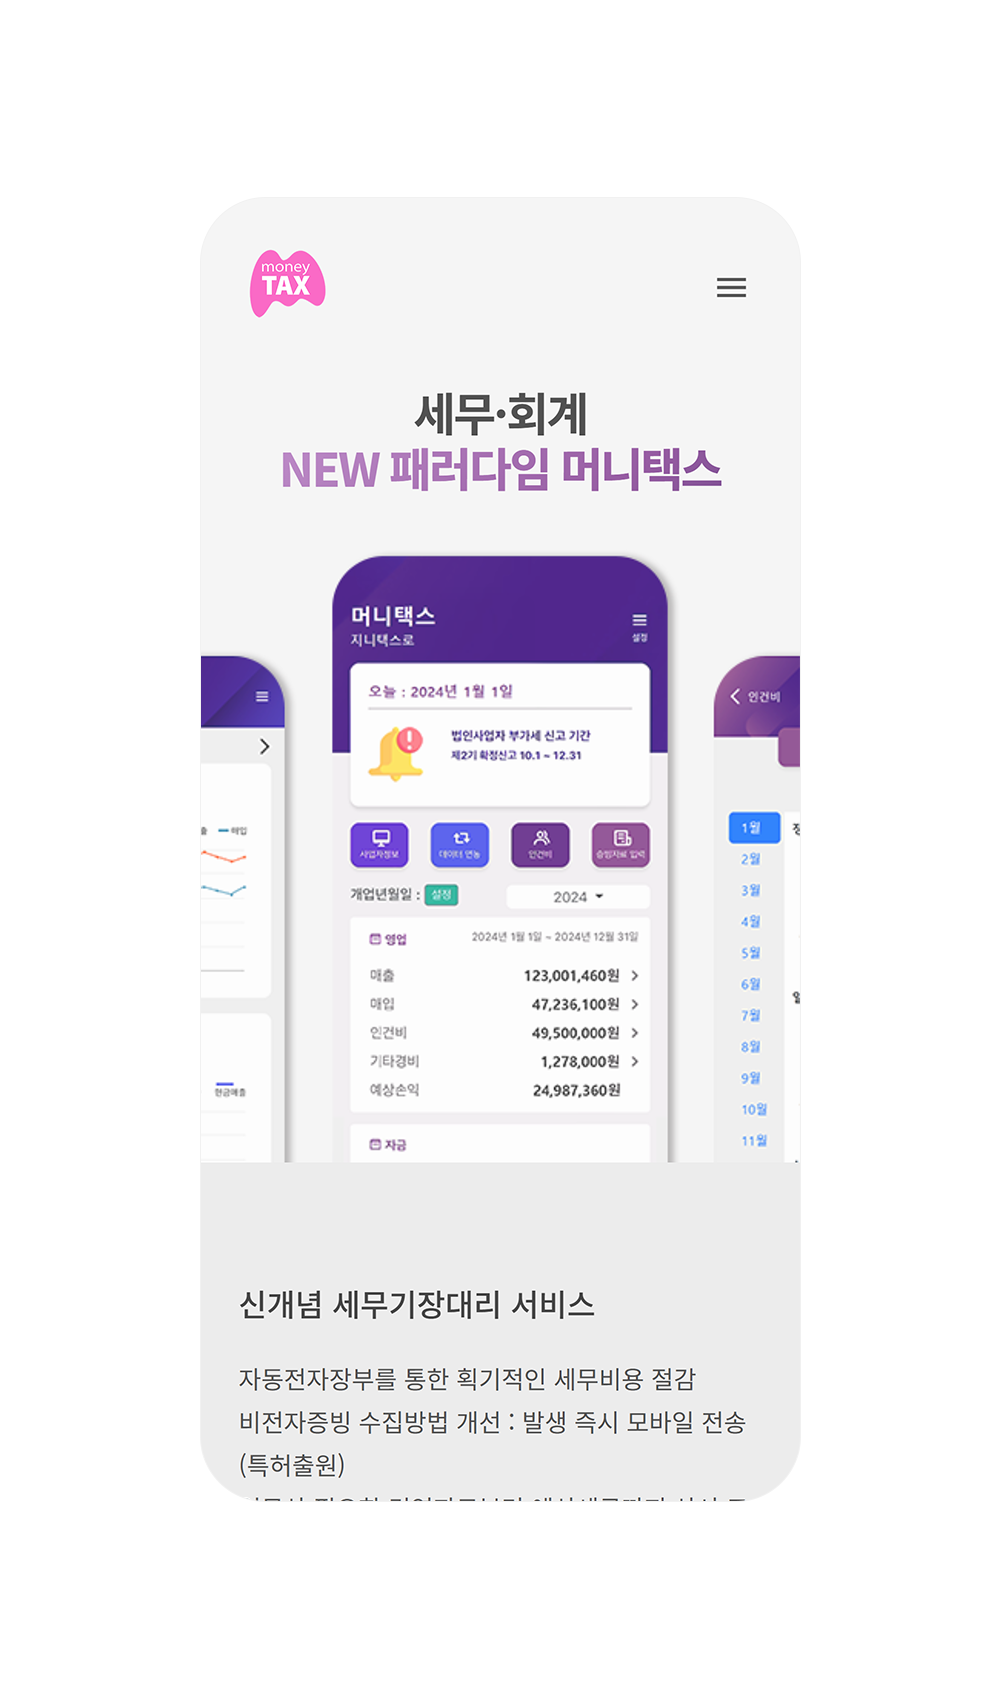
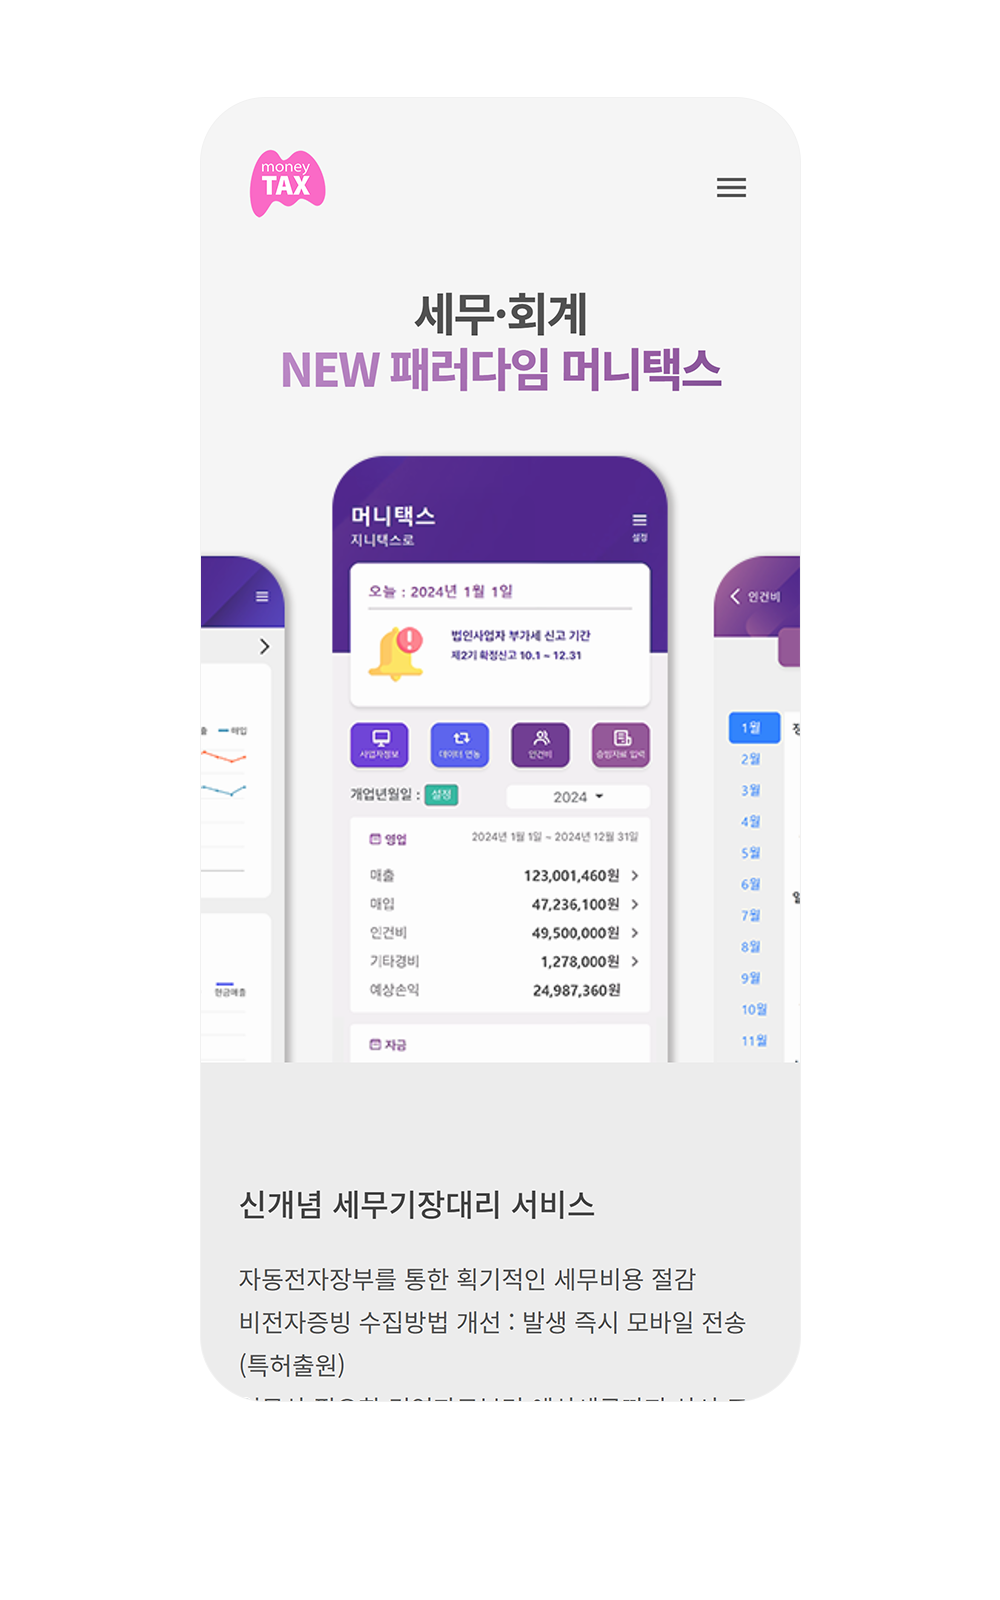
스타일적용끝

diff --git a/css/pp.css b/css/pp.css
@@ -1,3 +1,8 @@
+@import url('https://fonts.googleapis.com/css2?family=Noto+Sans+KR:wght@100..900&display=swap');
+
+body{
+  font-family: "Noto Sans KR", sans-serif;
+}
 
 @media screen and (max-width: 499px)  {
   .textF >ul{
@@ -14,14 +19,47 @@
     margin-bottom: 50vh;
   }
   
-  .textF h2 {
-    font-size: 20px;
-    font-weight: 400;
+  .textF .move >span {
+    font-size: 14px;
+    color: #238F51;
+    font-weight: 500;
+  }
+
+  .textF .move h2 {
+    font-size: 26px;
+    color: #14142B;
+    font-weight: 700;
+    margin: 0;
   }
   
+  .textF .move p:first-of-type{
+    font-size: 12px;
+    color: #9999A6;
+  }
+  .textF .move p >span{
+    color: #f05d4d;
+    font-weight: 600;
+  }
+  .textF .move p:last-of-type{
+    font-size: 14px;
+    color: #14142B;
+  }
+  .textF .move a {
+    display: block;
+    font-size: 16px;
+    color: #fff;
+    text-decoration: none;
+    background-color: #238F51;
+    width: 220px;
+    text-align: center;
+    padding: 10px 0;
+    border-radius: 30px;
+    margin: 0 auto;
+  }
+
   .imgF {
     position: fixed;
-    top: 150px;
+    top: 270px;
     left: 50%;
     transform: translateX(-50%);
     margin: 30px auto;
@@ -67,31 +105,48 @@
     margin-bottom: 50vh;
   }
 
-  .textF .move span {
-    font-size: 20px;
+  .textF .move >span {
+    font-size: 14px;
     color: #238F51;
     font-weight: 500;
   }
 
   .textF .move h2 {
-    font-size: 30px;
+    font-size: 26px;
     color: #14142B;
     font-weight: 700;
     margin: 0;
   }
   
   .textF .move p:first-of-type{
-    font-size: 16px;
+    font-size: 12px;
     color: #9999A6;
   }
+  .textF .move p >span{
+    color: #f05d4d;
+    font-weight: 600;
+  }
   .textF .move p:last-of-type{
-    font-size: 18px;
+    font-size: 14px;
     color: #14142B;
+  }
+  .textF .move a {
+    display: block;
+    font-size: 16px;
+    color: #fff;
+    text-decoration: none;
+    background-color: #238F51;
+    width: 220px;
+    text-align: center;
+    padding: 10px 0;
+    border-radius: 30px;
+    margin: 0 auto;
   }
 
   .imgF {
     position: fixed;
-    top: calc(50vh - 340px);
+    /* top: calc(50vh - 220px); */
+    top: 250px;
     left: 50%;
     transform: translateX(-50%);
     margin: 30px auto;
@@ -137,31 +192,47 @@
     margin-bottom: 57vh;
   }
   
-  .textF .move span {
-    font-size: 20px;
+  .textF .move >span {
+    font-size: 16px;
     color: #238F51;
-    font-weight: 500;
+    font-weight: 600;
   }
 
   .textF .move h2 {
-    font-size: 30px;
+    font-size: 28px;
     color: #14142B;
     font-weight: 700;
     margin: 0;
   }
   
   .textF .move p:first-of-type{
-    font-size: 16px;
+    font-size: 14px;
     color: #9999A6;
   }
+  .textF .move p >span{
+    color: #f05d4d;
+    font-weight: 600;
+  }
   .textF .move p:last-of-type{
-    font-size: 18px;
+    font-size: 16px;
     color: #14142B;
+  }
+  .textF .move a {
+    display: block;
+    font-size: 16px;
+    color: #fff;
+    text-decoration: none;
+    background-color: #238F51;
+    width: 255px;
+    text-align: center;
+    padding: 10px 0;
+    border-radius: 30px;
+    margin: 0 auto;
   }
 
   .imgF {
     position: fixed;
-    top: 220px;
+    top: 280px;
     left: 50%;
     transform: translateX(-50%);
     margin: 30px auto;
@@ -211,33 +282,49 @@
   }
 
   .textF .move:nth-child(1){
-    margin-top: calc(50vh - 370px);
+    margin-top: calc(50vh - 390px);
   }
 
   .textF .move:nth-child(3){
-    margin-bottom: calc(50vh - 150px);
+    margin-bottom: calc(50vh - 200px);
   }
   
-  .textF .move span {
-    font-size: 20px;
+  .textF .move >span {
+    font-size: 16px;
     color: #238F51;
-    font-weight: 500;
+    font-weight: 600;
   }
 
   .textF .move h2 {
-    font-size: 30px;
+    font-size: 28px;
     color: #14142B;
     font-weight: 700;
     margin: 0;
   }
   
   .textF .move p:first-of-type{
-    font-size: 16px;
+    font-size: 14px;
     color: #9999A6;
   }
+  .textF .move p >span{
+    color: #f05d4d;
+    font-weight: 600;
+  }
   .textF .move p:last-of-type{
-    font-size: 18px;
+    font-size: 16px;
     color: #14142B;
+  }
+
+  .textF .move a {
+    display: block;
+    font-size: 16px;
+    color: #fff;
+    text-decoration: none;
+    background-color: #238F51;
+    width: 120px;
+    text-align: center;
+    padding: 10px 0;
+    border-radius: 30px;
   }
 
   .imgF img {

diff --git a/index.html b/index.html
@@ -7,37 +7,47 @@
   <link rel="stylesheet" href="css/pp.css">
 </head>
 <body>
-  <div class="trymeBG">
-    <div class="contentBox">
-      <div class="textF">
-        <ul id="textList">
-          <li class="move" id="1">
-            <span>포트폴리오</span>
-            <h2>가상사이트</h2>
-            <p>2023.4.12 ~ 2023.7.19</p>
-            <p>포트폴리오용 반응형 웹사이트 디자인, 퍼블리싱</p>
-          </li>
-          <li class="move" id="2">
-            <span>프로젝트</span>
-            <h2>머니택스 웹</h2>
-            <p>2024.6.19 ~ 2024.7.11</p>
-            <p>반응형 웹사이트 디자인, 퍼블리싱</p>
-          </li>
-          <li class="move" id="3">
-            <span>프로젝트</span>
-            <h2>머니택스 어플</h2>
-            <p>2024.9.2 ~ 2024.10.31</p>
-            <p>어플 리뉴얼 디자인 (로고디자인)</p>
-          </li>
-        </ul>
+  <div class="contentBox">
+    <div class="textF">
+      <ul id="textList">
+        <li class="move" id="1">
+          <span>포트폴리오</span>
+          <h2>가상사이트</h2>
+          <p>
+            2023.4.12 ~ 2023.7.19 / 
+            <span>기여도 100%</span>
+          </p>
+          <p>반응형 웹사이트 디자인, 퍼블리싱</p>
+          <a href="https://jinyoonlee.github.io/volta/" target="_blank">바로가기</a>
+        </li>
+        <li class="move" id="2">
+          <span>프로젝트</span>
+          <h2>머니택스 웹</h2>
+          <p>
+            2024.6.19 ~ 2024.7.11 / 
+            <span>기여도 100%</span>
+          </p>
+          <p>반응형 웹사이트 디자인, 퍼블리싱</p>
+          <a href="https://moneytax.co.kr/" target="_blank">바로가기</a>
+        </li>
+        <li class="move" id="3">
+          <span>프로젝트</span>
+          <h2>머니택스 어플</h2>
+          <p>
+            2024.9.2 ~ 2024.10.31 / 
+            <span>기여도 100%</span>
+          </p>
+          <p>어플 리뉴얼 디자인 (로고디자인)</p>
+          <a href="http://" target="_blank">바로가기</a>
+        </li>
+      </ul>
+    </div>
+    <div class="imgF">
+      <div id="imageContainerM">
+        <img id="mainImageM" src="images/back_1.png" alt="browse-img">
       </div>
-      <div class="imgF">
-        <div id="imageContainerM">
-          <img id="mainImageM" src="images/back_1.png" alt="browse-img">
-        </div>
-        <div id="imageContainerP">
-          <img id="mainImageP" src="images/back_pc_1.png" alt="browse-img">
-        </div>
+      <div id="imageContainerP">
+        <img id="mainImageP" src="images/back_pc_1.png" alt="browse-img">
       </div>
     </div>
   </div>
